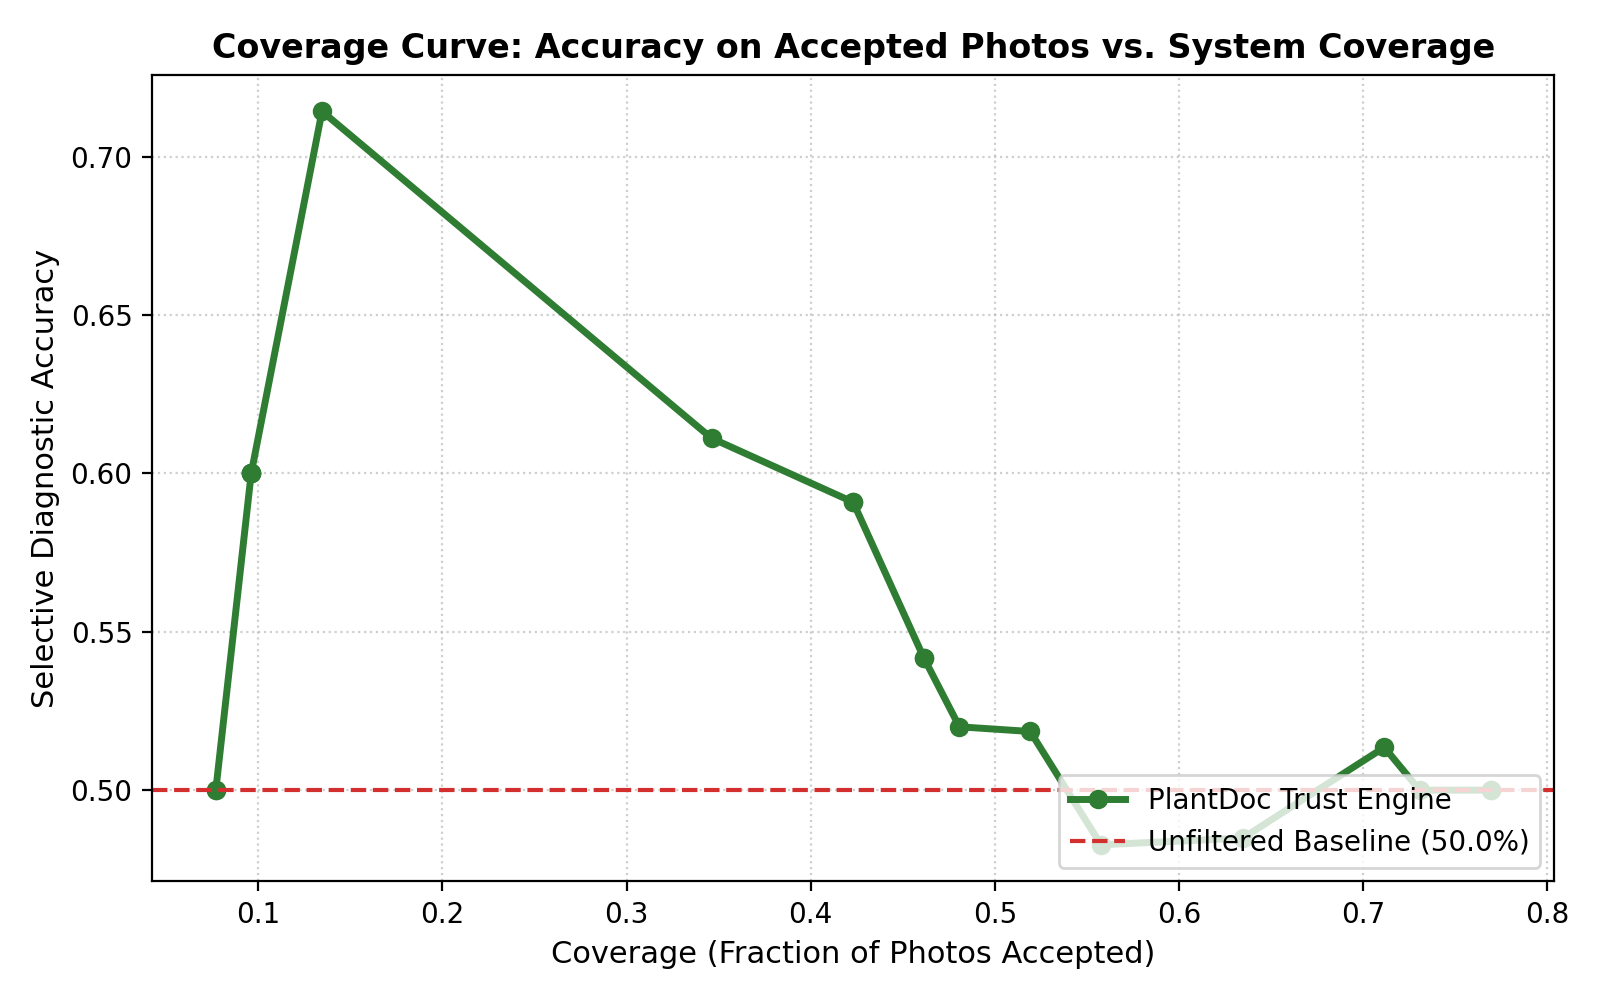
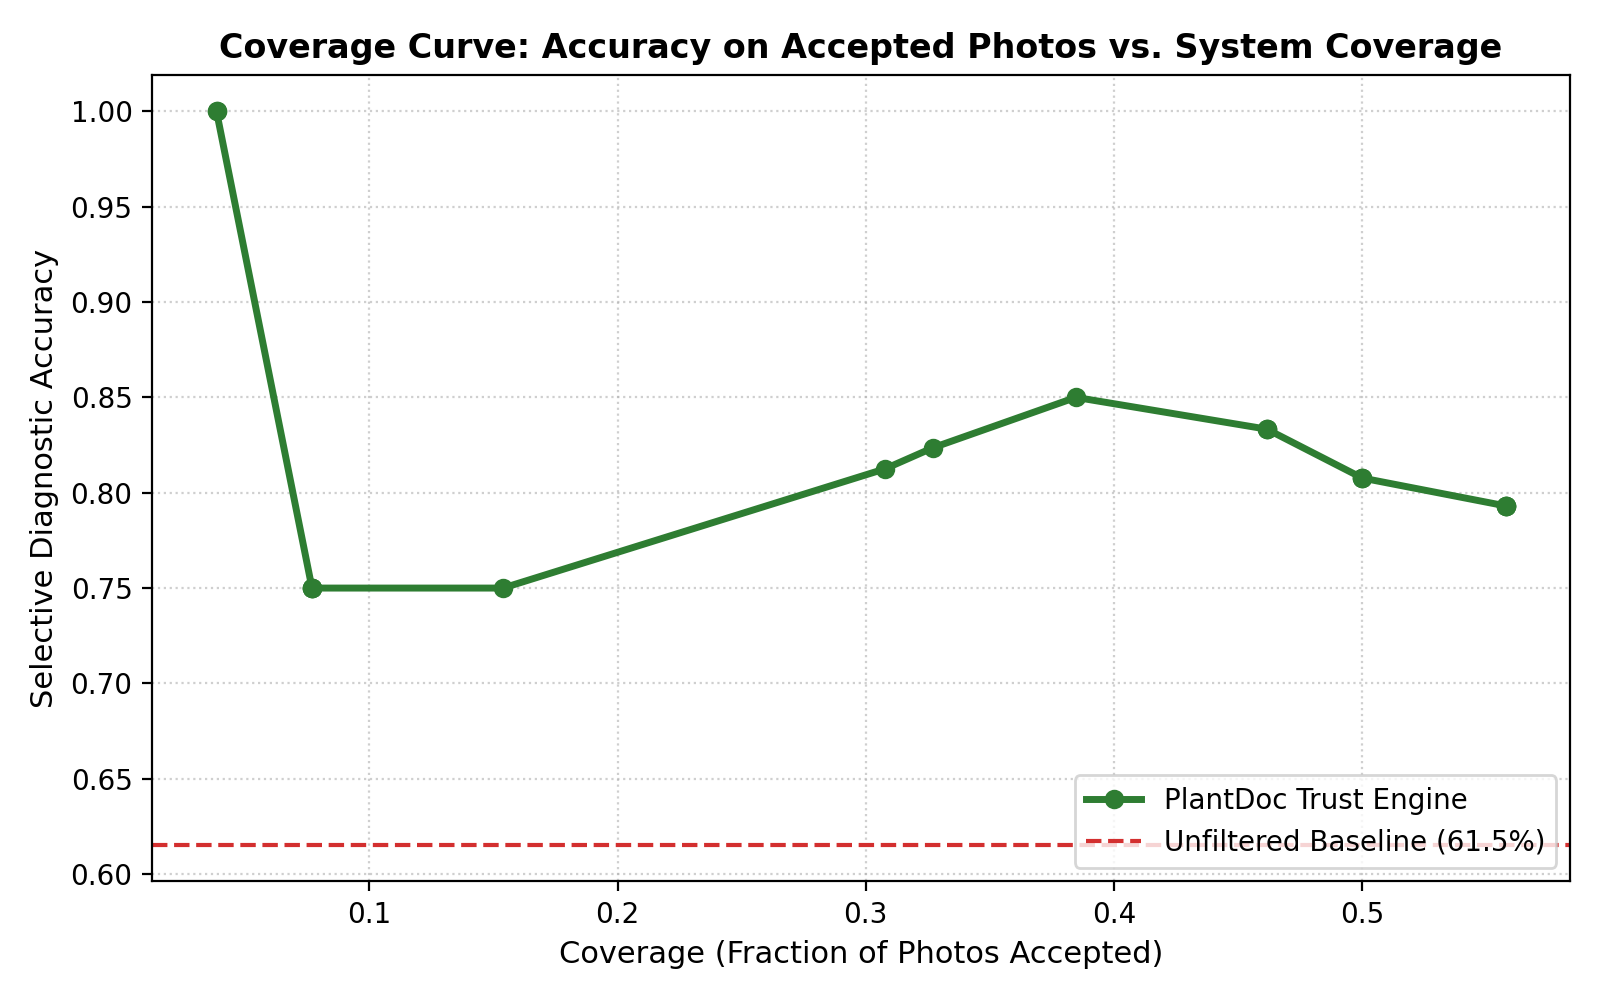
test(eval): hybrid held-out results and DEV_LOG update
Held-out test (n=52): top-1 61.5% (was 38.5%), top-3 100% (was 80.8%),
accuracy on trusted photos 81.3% (was 47.1%). The DEV_LOG documents the
benchmark, the CLAHE finding, corrected baseline numbers and rejected approaches.

diff --git a/DEV_LOG.md b/DEV_LOG.md
@@ -14,7 +14,7 @@
          │
          ├─── (Score < 0.50) ──► ❌ Reject with Actionable Retake Advice ("move closer", "avoid glare")
          ▼ (Score ≥ 0.50)
-[Fine-Tuned EfficientNet-B0] ──► Top-3 Predictions & Softmax Probabilities
+[CLAHE (LAB L-channel)] ──► [Hybrid: Swin-T ⊕ DINOv2 ViT-B ⊕ ConvNeXt-T + calibrated head] ──► Top-3 Predictions
          │
          ▼
 [Mamdani Fuzzy Trust Engine] (Quality Score × Model Confidence)
@@ -33,7 +33,11 @@
 | `src/quality_gate.py` | Blur / brightness / leaf-coverage features + fuzzy quality score, returns `(passed, score, message)` |
 | `src/fuzzy_engine.py` | Shared membership functions, Mamdani defuzzifier, Trust Engine |
 | `src/model.py` | `PlantDocModel`: timm backbone, 6-class head, layered weight loading |
-| `src/gradcam.py` | Grad-CAM saliency map visualizer for EfficientNet-B0 conv_head (Stretch Goal 1) |
+| `src/hybrid.py` | `HybridNet`: frozen Swin-T + DINOv2-B + ConvNeXt-T feature fusion, linear head, temperature scaling |
+| `src/preprocess.py` | CLAHE contrast normalisation on the LAB L channel |
+| `experiments/benchmark_backbones.py` | Frozen-backbone ± CLAHE benchmark and fusion search (5-fold CV, train split only) |
+| `train_hybrid.py` | Fits the hybrid head + out-of-fold temperature → `weights/plantdoc_hybrid.pth` |
+| `src/gradcam.py` | Grad-CAM saliency map (hooks the ConvNeXt branch of the hybrid, or EfficientNet `conv_head`) (Stretch Goal 1) |
 | `src/i18n.py` | Multilingual localization dictionary for English, Hindi, and Tamil (Stretch Goal 2) |
 | `src/agri_advisory.py` | Expert agronomic care notes cited from ICAR and TNAU (Stretch Goal 3) |
 | `src/prepare_dataset.py` | PlantDoc bare git object stream extractor with Windows NTFS filename sanitization |
@@ -67,7 +71,40 @@
   - Class weighting in Cross-Entropy Loss to handle class size differences.
 - **Outcome:** Best checkpoint saved at `weights/plantdoc_effnet_b0.pth` (16.3 MB) with **50.0% Top-1 Accuracy and 82.7% Top-3 Accuracy** on difficult, internet-sourced field photos.
 
+- **Correction (2026-10-22):** after `train.py` was rerun, the checkpoint scored **38.5% top-1 / 80.8% top-3** on the test set (validation peaked at 40%, while training accuracy reached 70%). The 50% figure above came from an earlier run. Fine-tuning all 5 M parameters on 541 images overfits.
+
+### 2b. CLAHE + Hybrid Feature-Fusion Model (current model)
+- **GPU:** switched to `torch 2.14.1+cu130`, since the RTX 5060 (Blackwell) needs CUDA ≥ 12.8. Inference on the hybrid takes 0.06 s per image on GPU and 0.37 s on CPU.
+- **Approach:** with 541 images, frozen pretrained features plus a regularised linear head beat end-to-end fine-tuning. Every backbone was benchmarked as a frozen feature extractor with logistic regression, using stratified 5-fold CV on `data/train` only. The test set was used exactly once, for the final model.
+- **Single backbones (CV top-1, raw / CLAHE):**
+
+  | Backbone | Raw | CLAHE |
+  |---|---|---|
+  | EfficientNet-B0 (IN-1k) | 50.1% | 50.8% |
+  | EfficientNetV2-S (IN-21k) | 59.1% | 56.6% |
+  | ConvNeXt-T (IN-22k) | 59.9% | 58.8% |
+  | Swin-T (IN-22k) | 57.9% | 60.1% |
+  | DINOv2 ViT-S/14 | 57.5% | 57.9% |
+  | DINOv2 ViT-B/14 | 60.1% | 59.7% |
+
+- **Fusion:** each backbone's embedding is L2-normalised, the embeddings are concatenated, standardised, and fed to logistic regression (class-balanced, `C=0.005`). Out of 10 two- and three-backbone combinations, **Swin-T + DINOv2-B + ConvNeXt-T** scored best. It mixes local convolutional texture (lesion spots), windowed attention, and self-supervised global shape features. Averaged over 3 CV seeds: 63.3% raw vs 62.8% CLAHE.
+- **CLAHE finding:** CLAHE was applied to the L channel only, so lesion hue is preserved. The effect stayed within ±2.5 points, which is CV noise at n=541, and for the final hybrid the difference was 0.5 points. CLAHE is kept, applied the same way in training and inference, as a robustness measure for low-light and shaded field photos. It is **not** a source of accuracy gain on this dataset. The quality gate still scores the *raw* photo, so CLAHE cannot hide a dark or blurry capture.
+- **Calibration:** temperature T = 1.35 was fitted on out-of-fold logits, because the fuzzy trust engine consumes softmax confidence and an overconfident head would undermine it. Prediction also averages logits over the original and horizontally flipped views.
+- **Checkpoint:** `weights/plantdoc_hybrid.pth` stores only the head, scaler and temperature (small). Backbone weights come from the timm / HF Hub cache, so the first run needs internet. `PlantDocModel` loads the hybrid when this file exists and otherwise falls back to EfficientNet-B0.
+
 ### 3. Held-Out Evaluation & Coverage Curve Proof
+- **Current hybrid (52 test photos):**
+
+  | Metric | EffNet-B0 fine-tuned | **Hybrid + CLAHE** |
+  |---|---|---|
+  | Top-1 accuracy | 38.5% | **61.5%** |
+  | Top-3 accuracy | 80.8% | **100.0%** |
+  | Quality-gate pass rate | 84.6% | 84.6% |
+  | Trusted rate | 32.7% | 30.8% |
+  | Accuracy on TRUSTED | 47.1% | **81.3%** |
+
+  The test set is small (±7 points at n=52), but the direction agrees with CV (+12 points over the best single backbone, +13 over frozen EfficientNet-B0).
+- *Earlier EfficientNet-B0 run (superseded):*
 - Evaluated on 52 held-out test photos:
   - Overall Top-1 Accuracy: **50.00%**
   - Overall Top-3 Accuracy: **76.92%**
@@ -85,6 +122,11 @@
 
 ## 🚫 Rejected Approaches
 - **PlantVillage pre-training:** Rejected because lab-photo models learn clean backgrounds and fail on field noise (the exact trap PS 2.2 avoids).
+- **End-to-end fine-tuning on 541 images:** overfit (70% train vs 40% validation). Replaced by frozen feature fusion.
+- **GAN / StyleGAN augmentation:** StyleGAN needs thousands of images per class and can invent lesions, which corrupts labels. Not feasible with ~100 images per class.
+- **GAN restoration (Real-ESRGAN / deblur) at inference:** hallucinated texture can add or erase lesions. Rejecting the photo and asking for a retake is safer.
+- **Vision Mamba / SSMs:** `mamba-ssm` needs Linux CUDA kernels. At 224 px (196 tokens) the linear-complexity advantage is negligible, Vim-Ti has about 4× the FLOPs of EfficientNet-B0 for similar ImageNet accuracy, and a weak inductive bias needs more data than we have.
+- **Per-branch CLAHE mixing:** looked +2.5 points better on one CV seed but complicates inference; across 3 seeds it was not distinguishable.
 - **Hard Boolean Thresholds:** Rejected in favor of Mamdani fuzzy membership, allowing soft degradation across borderline lighting and blur.
 - **Unverified Softmax Trust:** Softmax is notoriously overconfident on out-of-distribution field photos. Combining Image Quality with Softmax confidence via fuzzy logic ensures photo defects pull down the trust score.
 
@@ -97,6 +139,9 @@
 - [x] Dataset extracted (541 train, 52 test images across 6 classes)
 - [x] Model trained & weights saved (`weights/plantdoc_effnet_b0.pth`)
 - [x] Held-out evaluation performed & `coverage_curve.png` generated
+- [x] CLAHE preprocessing + hybrid Swin-T/DINOv2-B/ConvNeXt-T model (61.5% top-1, 100% top-3, 81.3% trusted accuracy)
+- [x] CUDA torch on RTX 5060; temperature-calibrated confidence
+- [ ] Optional: partial fine-tuning (last stage of each branch) with the GPU
 - [x] Stretch Goal 1 (Grad-CAM) completed
 - [x] Stretch Goal 2 (Multilingual UI: EN, HI, TA) completed
 - [x] Stretch Goal 3 (ICAR/TNAU Care Notes) completed
